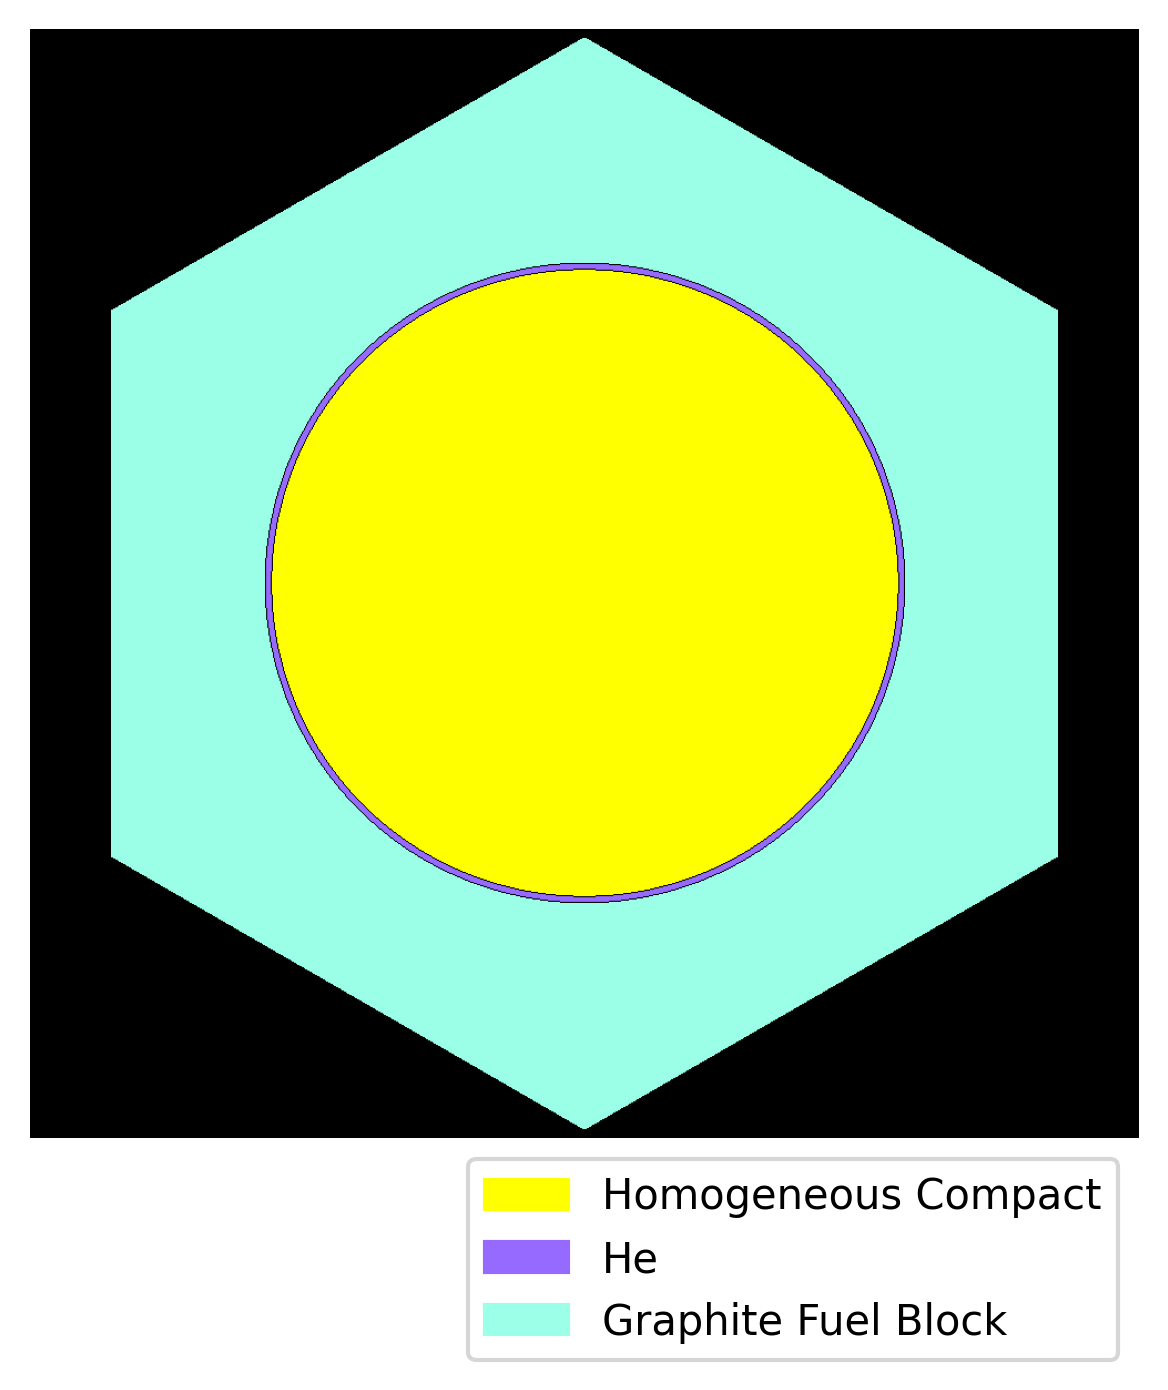
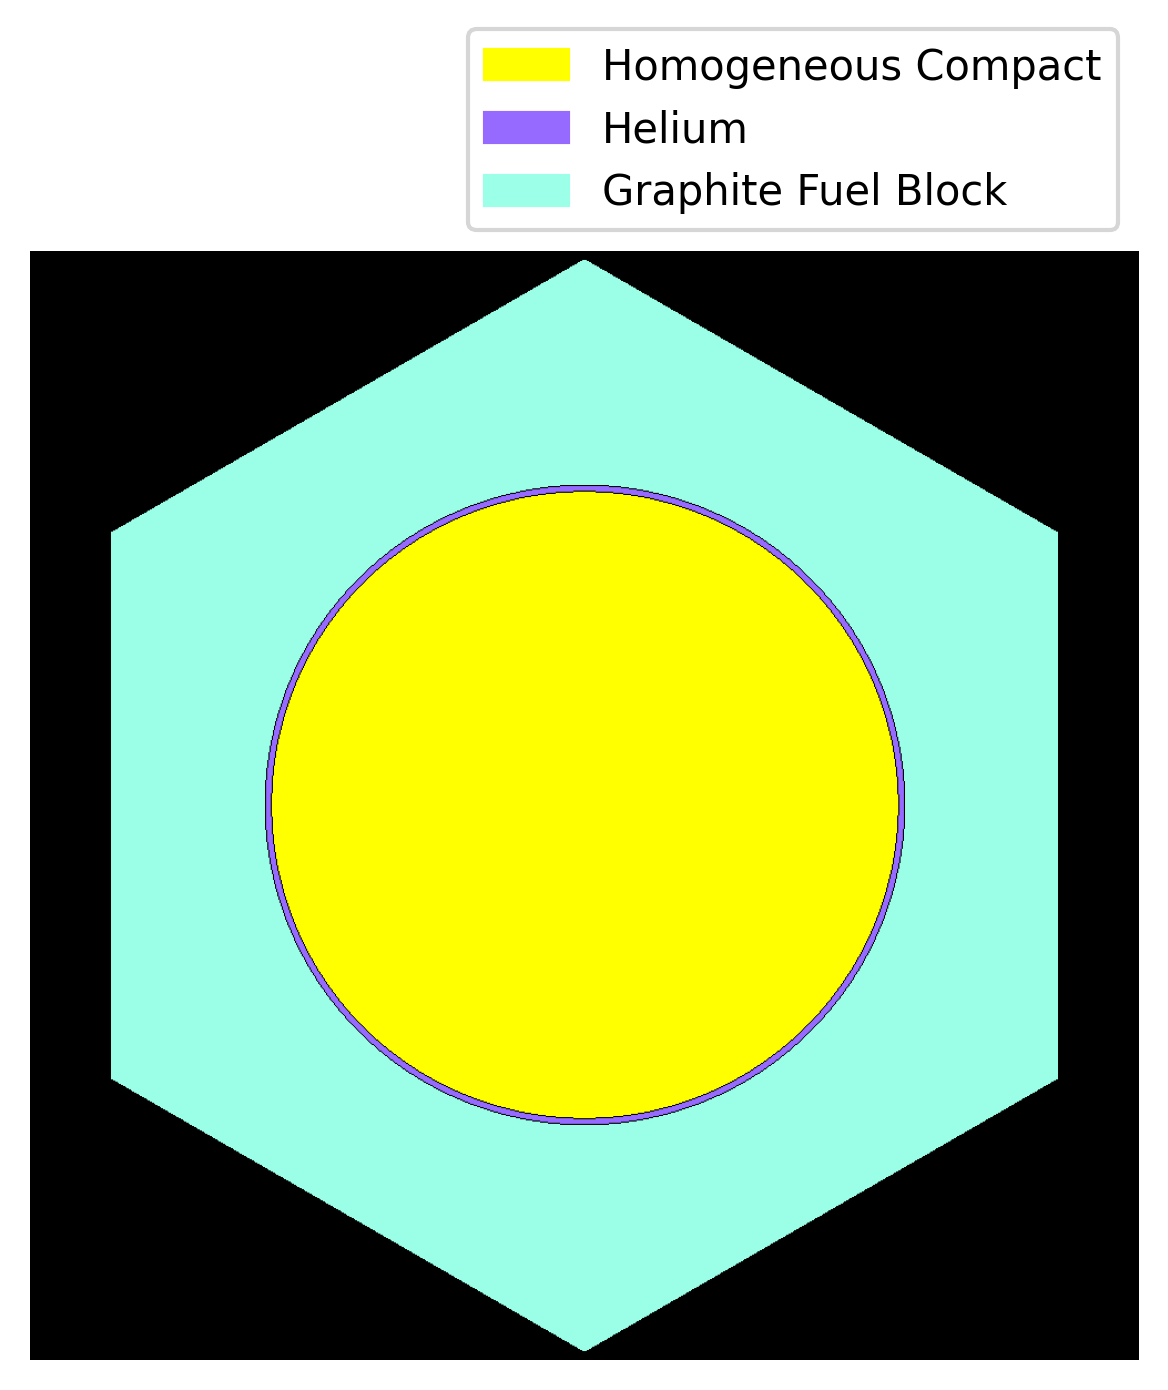
fixing images

diff --git a/neutronics.tex b/neutronics.tex
@@ -14,13 +14,13 @@ Section \ref{sec:setup} analyzes different ways to set up Moltres input files.
 \subsection{Homogeneous vs. heterogeneous isotope distribution}
 \label{sec:homo-hetero}
 
-This section discusses a study with the objective to determine the proper way to treat the fuel compact heterogeneities in Serpent.
+This section determines the proper way to treat the fuel compact heterogeneities in Serpent.
 This study modeled in Serpent two different material distributions in a fuel compact: a homogeneous distribution of the isotopes and a heterogeneous distribution that explicitly modeled the TRISO particles.
 The study used a hexagonal unit cell model that included the fuel compact, a helium gap, and the surrounding graphite, exhibited in Figure \ref{fig:compact-model}.
 Table \ref{tab:compact} specifies the model input parameters.
 The material temperature was 1200K, a case that represents the \gls{HFP} core state.
-The serpent simulations included 5$\times 10^4$ neutrons per cycle, 500 active cycles, and 50 inactive cycles.
-The homogeneous distribution simulation took 1.73 and the heterogeneous distribution simulation 2.21 minutes using 256 cores --- the heterogeneous calculation took 28$\%$ longer.
+The Serpent simulations included 5$\times 10^4$ neutrons per cycle, 500 active cycles, and 50 inactive cycles for the calculations.
+The homogeneous distribution simulation took 1.73 minutes and the heterogeneous distribution simulation 2.21 minutes using 256 cores --- the heterogeneous calculation took 28$\%$ longer.
 
 \begin{figure}[htbp!]
   \centering
@@ -36,8 +36,8 @@ The homogeneous distribution simulation took 1.73 and the heterogeneous distribu
 \end{figure}
 
 The \gls{Keff} was 1.17527 $\pm$ 0.00021 for the homogeneous distribution and 1.25107 $\pm$ 0.00020 for the heterogeneous distribution.
-Using the heterogeneous distribution as a reference, we calculated the relative error of some of the group constants in an eigenvalue calculation.
-Serpent generated the group constants using the three energy group structure in Table \ref{tab:energygroups}.
+Serpent generated the group constants using the three energy group structure [0, 2.38eV, 111keV, 20MeV].
+Using the heterogeneous distribution as the reference, a python script calculated the relative error of some of the group constants in an eigenvalue calculation.
 The evaluated parameters were $D_g$, $\Sigma^r_g$, $\nu\Sigma^f_g$, and $\chi^t_g$ (see Equation \ref{eq:diffusion-eig}).
 Figure \ref{fig:param-comparison} displays the relative errors for $\Sigma^r_g$ and $\nu\Sigma^f_g$, which were the group constants that changed the most.
 The figure does not include $D_g$ and $\chi^t_g$ because their relative errors were less than 1$\%$.
@@ -77,11 +77,24 @@ Keeping in mind Moltres proven capabilities, this work aimed for a heterogeneous
 For this study, Serpent modeled a fuel column of the MHTGR-350 and generated the group constants.
 Figure \ref{fig:fuelcolumn} displays the Serpent model geometry.
 Serpent generated the group constants for three materials: moderator, coolant, and fuel compact.
-The Serpent simulations included 5$\times 10^5$ neutrons per cycle, 400 active cycles, and 100 inactive cycles.
+The Serpent simulations included 5$\times 10^5$ neutrons per cycle, 400 active cycles, and 100 inactive cycles for the calculations.
 % The \gls{Keff} was 1.41933.
 Taking advantage of the problem's symmetry, Moltres modeled only $1/12^{th}$ of the fuel column shown in Figure \ref{fig:fuelcolumn}.
 I made the geometry and mesh using Gmsh \cite{geuzaine_gmsh_2020}.
 The diffusion calculation had 1.84$\times 10^5$ \glspl{DoF} per energy-group.
+
+\begin{figure}[htbp!]
+	\centering
+    \subfloat[Serpent model geometry.]{
+        \includegraphics[width=0.35\textwidth]{figures-neutronics/standard}
+    }
+    \subfloat[Moltres model geometry.]{
+        \includegraphics[width=0.22\textwidth]{figures-neutronics/3D-assembly-30deg-reflec-meshB2}
+    }
+	\hfill
+    \caption{Fuel column of the MHTGR-350. $xy$-plane in the active core region.}
+	\label{fig:fuelcolumn}
+\end{figure}
 
 Moltres simulation obeyed an eigenvalue convergence tolerance of 1$\times$10$^{-8}$, defined by equation \ref{eq:moltres-tol}
 
@@ -92,35 +105,12 @@ Moltres simulation obeyed an eigenvalue convergence tolerance of 1$\times$10$^{-
    & \varepsilon = \mbox{convergence tolerance } [-]. \notag
 \end{align}
 
-The calculation used a two energy groups with the structure [0, 0.625eV, 20MeV].
+The calculation used two energy groups with the structure [0, 0.625eV, 20MeV].
 The eigenvalue calculation did not converge.
-Although several factors could contribute to this behavior, we focused on the validity of the diffusion calculations in this system.
-
-
-% \begin{figure}[htbp!]
-% 	\centering
-% 	\includegraphics[width=0.45\linewidth]{figures-neutronics/oecd-standard-column-legend}
-% 	\hfill
-% 	\caption{Serpent model of a MHTGR-350 fuel column.}
-% 	\label{fig:fuelcolumn}
-% \end{figure}
-
-\begin{figure}[htbp!]
-	\centering
-    \subfloat[Serpent model geometry.]{
-        \includegraphics[width=0.35\textwidth]{figures-neutronics/oecd-standard-column-legend}
-    }
-    \subfloat[Moltres model geometry.]{
-        \includegraphics[width=0.22\textwidth]{figures-neutronics/3D-assembly-30deg-reflec-meshB2}
-    }
-	\hfill
-    \caption{Fuel column of the MHTGR-350. $xy$-plane in the active core region.}
-	\label{fig:fuelcolumn}
-\end{figure}
+Although several factors could contribute to this behavior, I focused on the validity of the diffusion calculations in this system.
 
 % Diffusion validity see bu1/tools-bu.txt
 In diffusion theory, the current density $J$ is proportional to the gradient of the flux, see equation \ref{eq:diff} \cite{leppanen_development_2007}.
-
 \begin{align}
    & J = - D \nabla \phi \label{eq:diff} \\
    \intertext{where}
@@ -141,7 +131,7 @@ More detailed studies of the transport equation indicate that the following case
 \begin{itemize}
     \item regions near vacuum boundaries and low-density material regions,
     \item regions near strongly absorbing media,
-    \item and egions near localized sources.
+    \item and regions near localized sources.
 \end{itemize}
 
 The diffusion theory applies best to geometries consisting of large homogeneous regions where the flux gradient is small.
